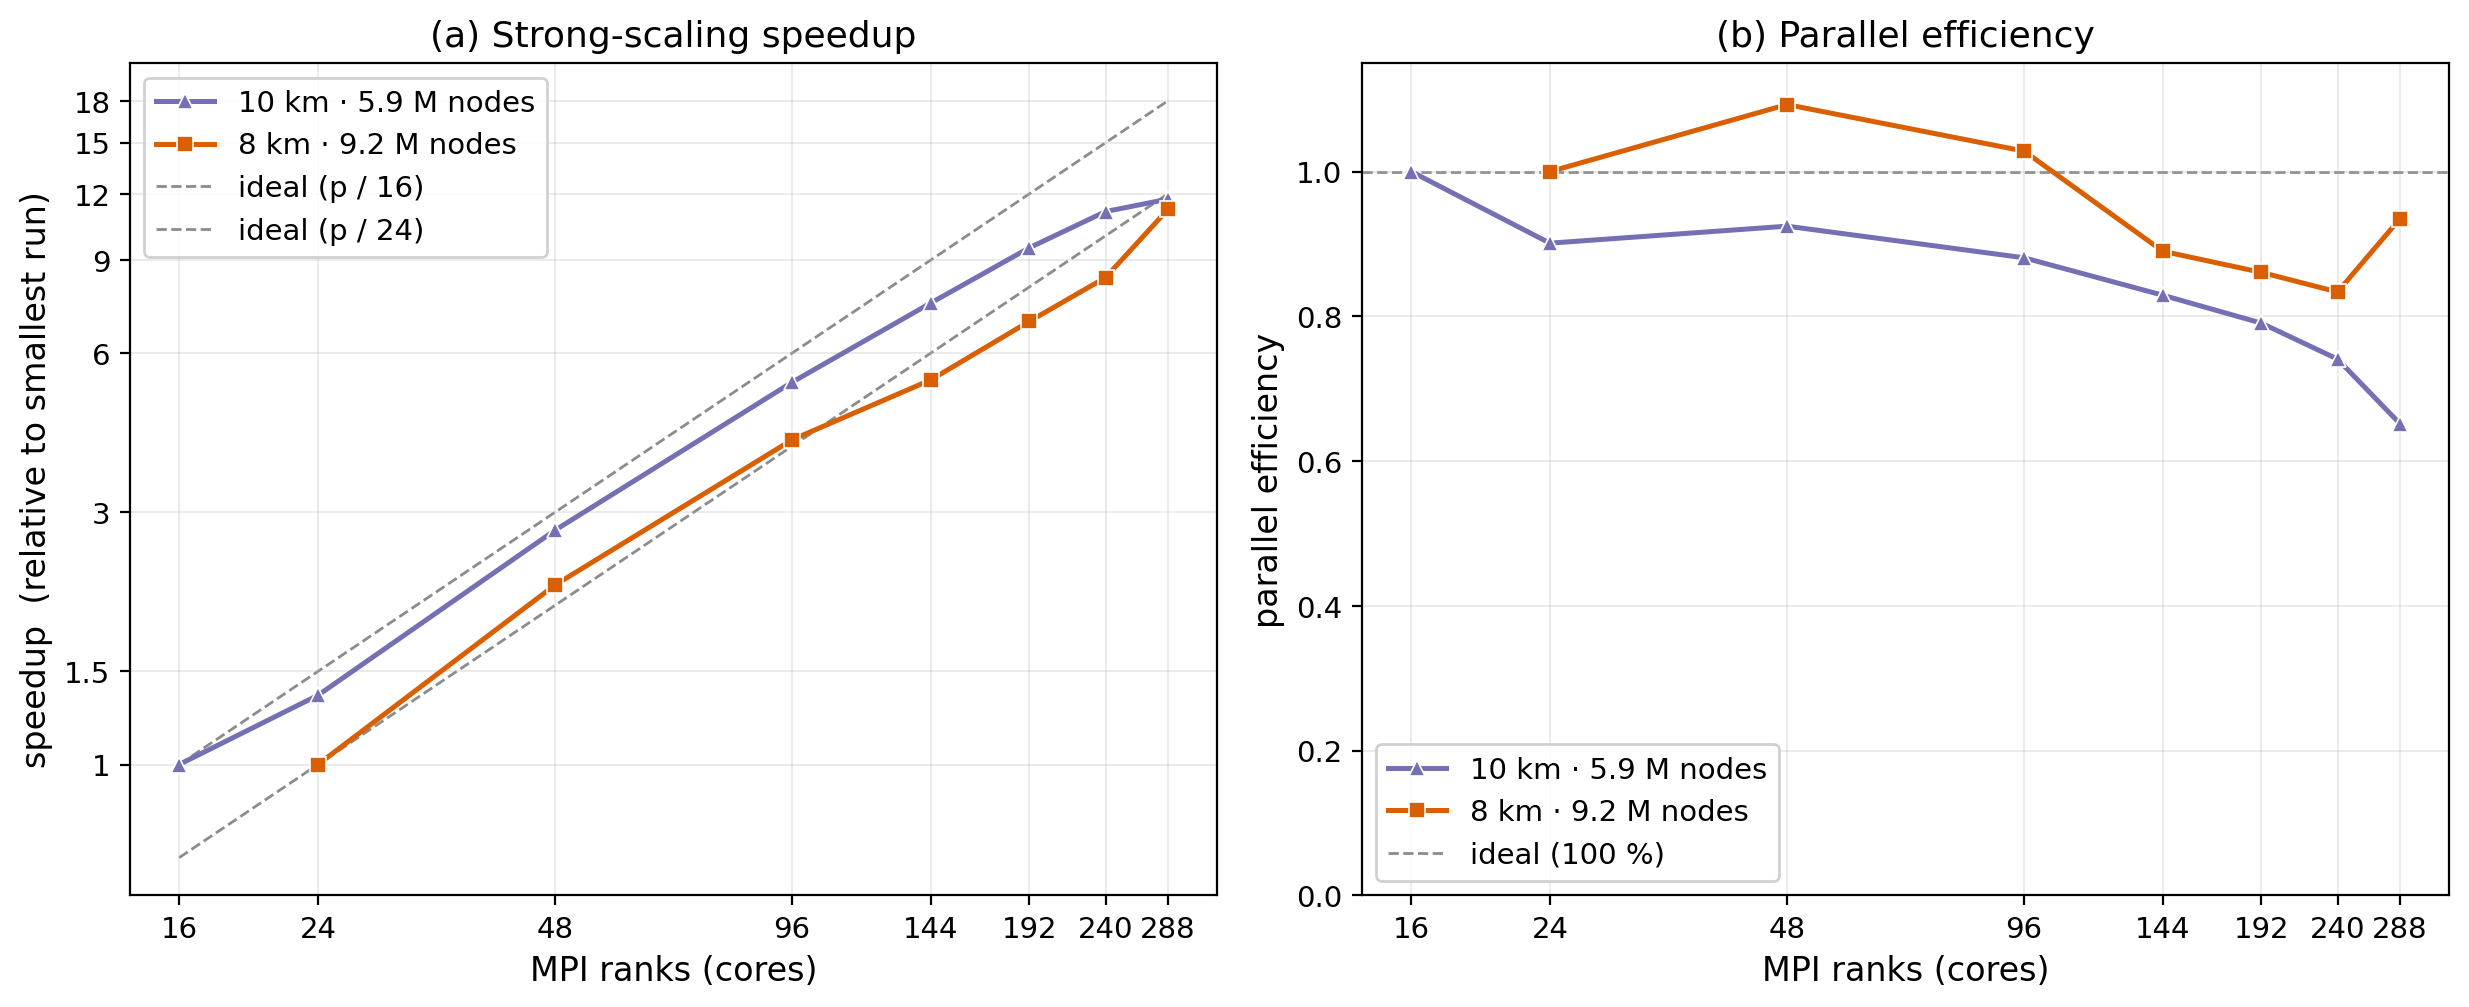
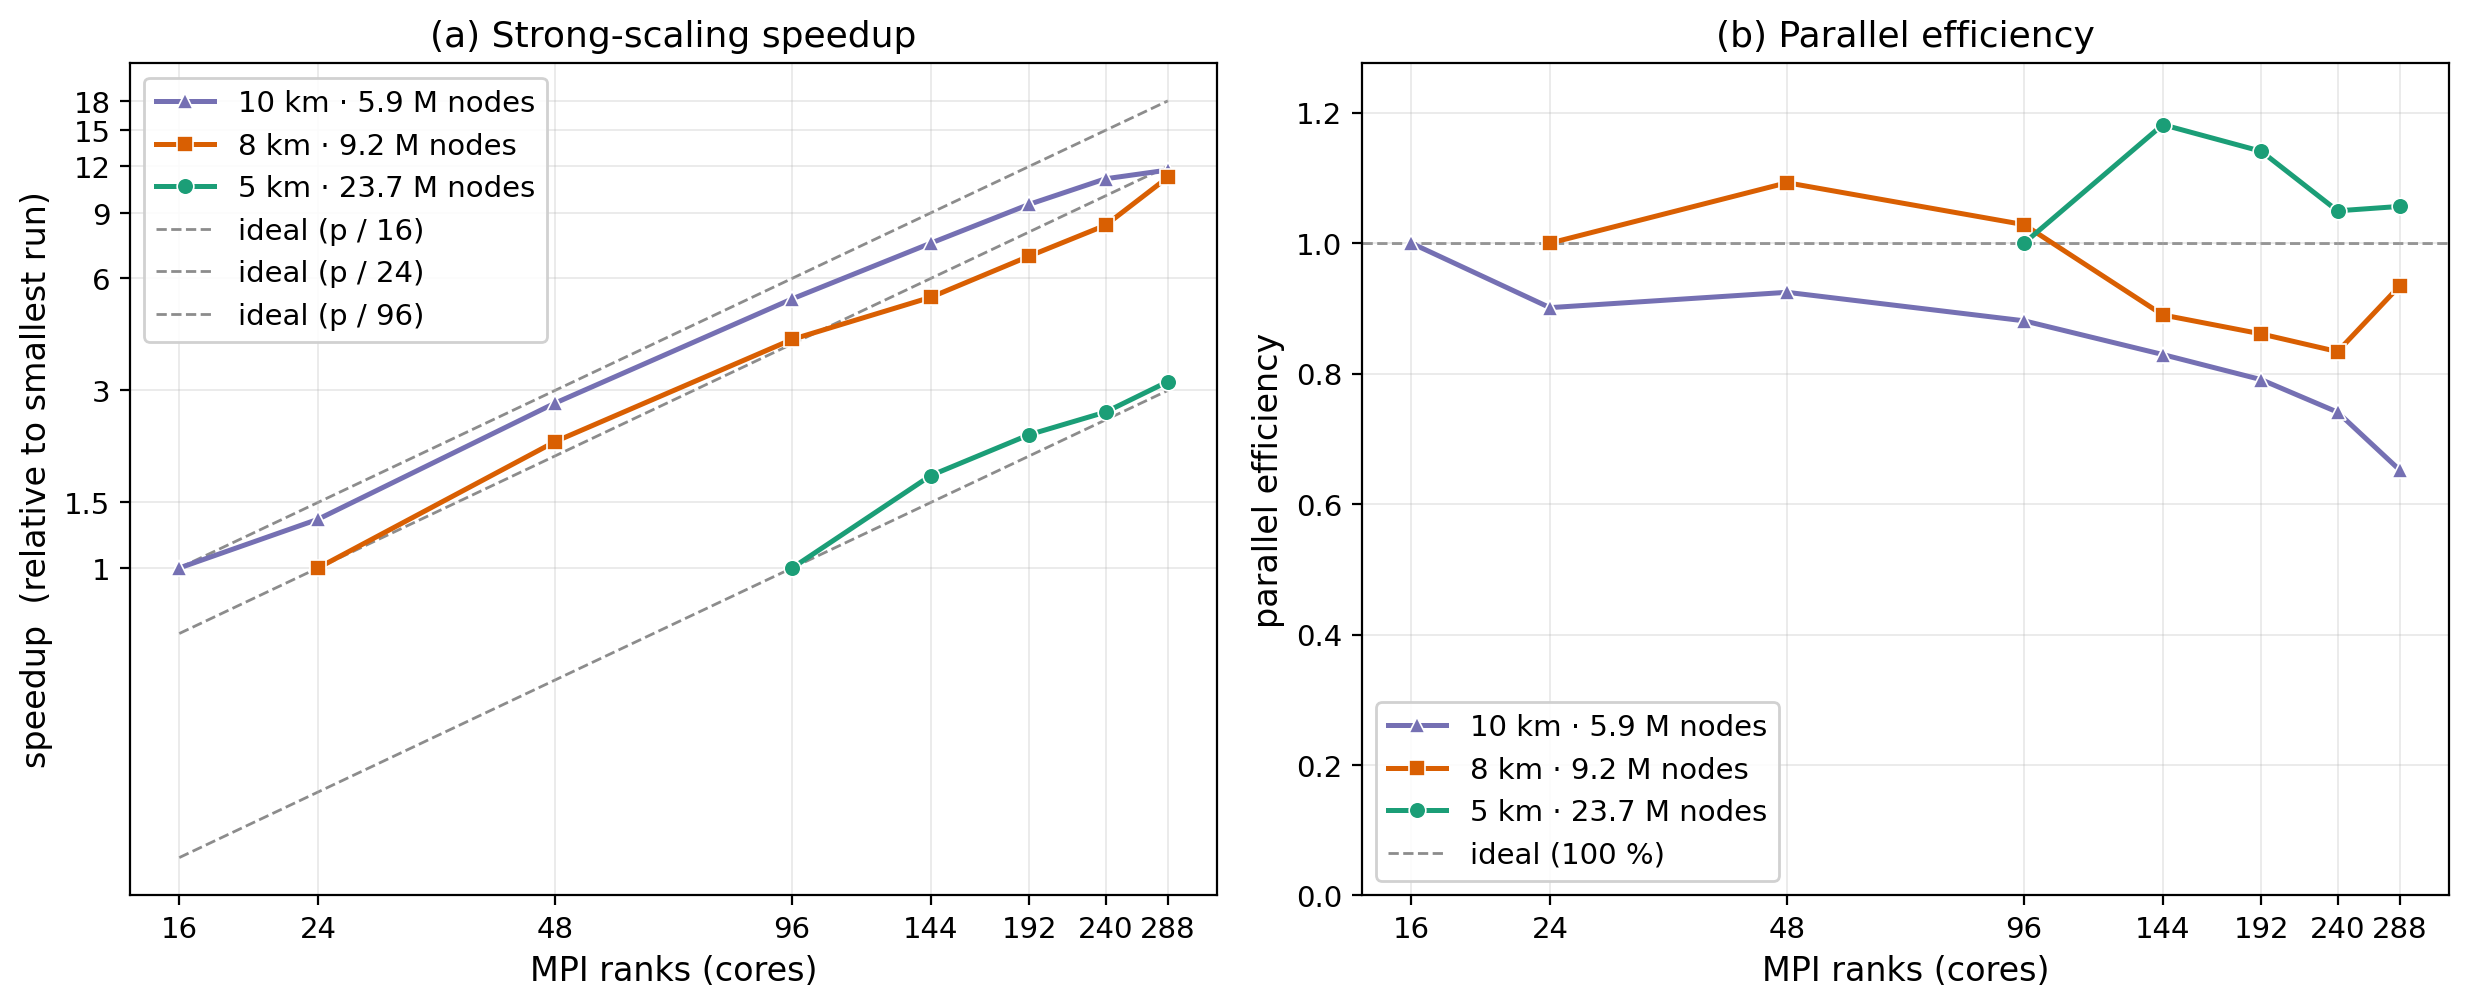
docs(user-guide): complete HPC scaling page with 5 km mesh + per-phase figure
Adds the 5 km (23.7 M node) sweep to the HPC strong-scaling page, now
covering all three production global meshes (10/8/5 km), and a second
figure breaking down per-phase scaling.

- 5 km curve (`scaling_5km.csv`, baseline 96 ranks, 1.77x -> 3.17x to
  288): table + curve in both figures. The 144-rank point is the run that
  confirmed the cascade stagnation-break fix completes (exit 0).
- 48-rank 5 km does NOT fit a single node (rank 0 OOM-killed; ~180 GB
  recorded, undercounting the peak past the node limit), documented as the
  reason 96 is the smallest feasible 5 km count.
- New per-phase scaling figure (`scaling_phases.png`, one panel per mesh):
  compute phases (sed/sea/flow/erosion/hillslope) track 1/p; flexure is the
  genuinely serial flat floor; pit filling is only PARTLY serial (local
  priority-flood fill parallelises ~16->8 s, then flattens toward its rank-0
  spillover-graph floor). Floors grow with mesh size.
- Real mesh stats (nodes/faces/edge min-max-mean) in the resolution table.
- `make_scaling_figure.py` emits both figures; efficiency y-limit is now
  data-adaptive (shows the 5 km super-linear peak at 1.18).
- Honest framing throughout: baseline-to-smallest convention (p0=16/24/96),
  super-linear efficiency reported un-clipped, serial floors named.

AGENTS.md: changelog rows + the flow-cascade stagnation-break note.

diff --git a/docs/user_guide/scaling/make_scaling_figure.py b/docs/user_guide/scaling/make_scaling_figure.py
@@ -25,9 +25,27 @@ import matplotlib.pyplot as plt  # noqa: E402
 
 HERE = os.path.dirname(os.path.abspath(__file__))
 OUT = os.path.normpath(os.path.join(HERE, "..", "..", "images", "scaling_hpc.png"))
+OUT_PHASES = os.path.normpath(
+    os.path.join(HERE, "..", "..", "images", "scaling_phases.png"))
+
+# Per-phase scaling figure: the TOP-LEVEL phases that partition the wall-clock
+# (the `flow_*` sub-phases nest inside `flow` and would double-count). `flexure`
+# is the genuinely flat serial floor; `flow_fill` (pit filling) scales partway
+# -- the local priority-flood fill is parallel -- then flattens toward its
+# serial rank-0 spillover-graph component, so it is broken out too. (column,
+# label).
+PHASES = [
+    ("phase_sed_mean_s", "sediment routing"),
+    ("phase_sea_mean_s", "marine deposition"),
+    ("phase_flow_mean_s", "flow accumulation"),
+    ("phase_erosion_mean_s", "river incision (SPL)"),
+    ("phase_hillslope_mean_s", "hillslope diffusion"),
+    ("phase_flow_fill_mean_s", "pit filling"),
+    ("phase_flexure_mean_s", "flexure (serial)"),
+]
 
 # Per-resolution metadata (node count for the legend). cell_width (km) -> label.
-MESH = {5: "5 km · 23.6 M nodes", 8: "8 km · 9.2 M nodes", 10: "10 km · 5.9 M nodes"}
+MESH = {5: "5 km · 23.7 M nodes", 8: "8 km · 9.2 M nodes", 10: "10 km · 5.9 M nodes"}
 # Distinct, colour-blind-friendly styling per resolution.
 STYLE = {
     5:  dict(color="#1b9e77", marker="o"),
@@ -62,6 +80,54 @@ def _load(path):
     return p, sp, eff
 
 
+def _load_phases(path):
+    rows = list(csv.DictReader(open(path)))
+    rows.sort(key=lambda r: int(r["nranks"]))
+    p = [int(r["nranks"]) for r in rows]
+    series = {}
+    for col, _ in PHASES:
+        if col in rows[0]:
+            series[col] = [float(r[col]) for r in rows]
+    return p, series
+
+
+def phase_figure(files):
+    """Per-phase strong scaling: one panel per mesh, log-log phase time vs
+    ranks, with a 1/p ideal guide. Shows the compute phases tracking the ideal
+    and the serial floors (flexure, pit-fill) flattening out."""
+    cmap = plt.get_cmap("tab10")
+    colours = {col: cmap(i) for i, (col, _) in enumerate(PHASES)}
+
+    fig, axes = plt.subplots(1, len(files), figsize=(5.6 * len(files), 5.0),
+                             squeeze=False)
+    axes = axes[0]
+    for ax, f in zip(axes, files):
+        km = int("".join(c for c in os.path.basename(f) if c.isdigit()))
+        p, series = _load_phases(f)
+        ticks = sorted(set(p))
+        # ideal 1/p guide anchored at the largest phase value at the baseline.
+        anchor = max(v[0] for v in series.values())
+        ax.plot([p[0], p[-1]], [anchor, anchor * p[0] / p[-1]], "--",
+                color="0.55", lw=1.0, zorder=0, label="ideal $\\propto 1/p$")
+        for col, lbl in PHASES:
+            if col in series:
+                ax.plot(p, series[col], "-o", color=colours[col], label=lbl,
+                        lw=1.6, ms=5, mec="white", mew=0.5)
+        ax.set_xscale("log", base=2)
+        ax.set_yscale("log")
+        ax.set_xticks(ticks)
+        ax.set_xticklabels([str(t) for t in ticks])
+        ax.set_xlabel("MPI ranks (cores)")
+        ax.set_title(MESH.get(km, "%d km" % km))
+    axes[0].set_ylabel("phase wall-clock per call (s)")
+    axes[0].legend(frameon=True, framealpha=0.9, fontsize=9.5, ncol=1,
+                   loc="lower left")
+    fig.tight_layout()
+    fig.savefig(OUT_PHASES, bbox_inches="tight")
+    plt.close(fig)
+    print("wrote", OUT_PHASES)
+
+
 def main():
     files = sorted(glob.glob(os.path.join(HERE, "scaling_*km.csv")),
                    key=lambda f: -int("".join(c for c in os.path.basename(f) if c.isdigit())))
@@ -71,12 +137,14 @@ def main():
     fig, (ax1, ax2) = plt.subplots(1, 2, figsize=(12.5, 5.2))
     all_p = set()
     baselines = set()
+    max_eff = 1.0
 
     for f in files:
         km = int("".join(c for c in os.path.basename(f) if c.isdigit()))
         p, sp, eff = _load(f)
         all_p.update(p)
         baselines.add(p[0])
+        max_eff = max(max_eff, max(eff))
         st = STYLE.get(km, dict(color="0.3", marker="D"))
         lbl = MESH.get(km, "%d km" % km)
         ax1.plot(p, sp, "-", **st, label=lbl, lw=1.8, ms=6, mec="white", mew=0.6)
@@ -107,7 +175,7 @@ def main():
     ax2.set_xscale("log", base=2)
     ax2.set_xticks(ticks)
     ax2.set_xticklabels([str(t) for t in ticks])
-    ax2.set_ylim(0.0, 1.15)
+    ax2.set_ylim(0.0, max(1.15, max_eff * 1.08))
     ax2.set_xlabel("MPI ranks (cores)")
     ax2.set_ylabel("parallel efficiency")
     ax2.set_title("(b) Parallel efficiency")
@@ -118,6 +186,8 @@ def main():
     fig.savefig(OUT, bbox_inches="tight")
     plt.close(fig)
     print("wrote", OUT)
+
+    phase_figure(files)
 
 
 if __name__ == "__main__":

diff --git a/docs/user_guide/hpc_scaling.rst b/docs/user_guide/hpc_scaling.rst
@@ -25,28 +25,32 @@ the edge lengths below are in km):
 
 .. list-table::
    :header-rows: 1
-   :widths: 18 16 16 16 22
+   :widths: 14 18 18 14 14 14
 
    * - Cell width (km)
+     - Nodes
+     - Faces
      - Edge min (km)
      - Edge max (km)
      - Edge mean (km)
-     - Nodes
    * - 5
-     - 1.1
-     - 4.5
-     - 2.8
-     - 23,632,811
+     - 23,655,606
+     - 47,311,208
+     - 3.73
+     - 6.78
+     - 4.99
    * - 8
-     - 1.8
-     - 7.2
-     - 4.6
-     - 9,236,387
+     - 9,246,354
+     - 18,492,704
+     - 6.11
+     - 10.96
+     - 7.98
    * - 10
-     - 2.2
-     - 8.9
-     - 5.7
-     - 5,912,778
+     - 5,916,934
+     - 11,833,864
+     - 7.59
+     - 13.61
+     - 9.98
 
 
 How the benchmark is run
@@ -83,10 +87,10 @@ Results
    :alt: goSPL strong-scaling speedup and parallel efficiency vs MPI ranks.
 
    Strong-scaling **speedup** (a) and **parallel efficiency** (b) versus MPI
-   rank count, for the global meshes above. Markers are measured points; dashed
-   lines are the ideal (each sweep baselined to its own smallest rank count, so
-   the 10 km and 8 km curves have different ideal references). *(The 5 km curve
-   is being collected and will be added here.)*
+   rank count, for the three global meshes above. Markers are measured points;
+   dashed lines are the ideal (each sweep is baselined to its own smallest
+   feasible rank count — 16, 24 and 96 for the 10, 8 and 5 km meshes — so the
+   three curves have different ideal references).
 
 **10 km mesh (5.9 M nodes), baseline = 16 ranks:**
 
@@ -187,6 +191,43 @@ Results
      - 0.93
      - 9.8
 
+**5 km mesh (23.7 M nodes), baseline = 96 ranks:**
+
+.. list-table::
+   :header-rows: 1
+   :widths: 12 16 14 16 20
+
+   * - Ranks
+     - Wall (s)
+     - Speedup
+     - Efficiency
+     - RSS / rank (GB)
+   * - 96
+     - 766.6
+     - 1.00
+     - 1.00
+     - 24.2
+   * - 144
+     - 432.5
+     - 1.77
+     - 1.18
+     - 24.3
+   * - 192
+     - 336.0
+     - 2.28
+     - 1.14
+     - 24.4
+   * - 240
+     - 292.2
+     - 2.62
+     - 1.05
+     - 24.4
+   * - 288
+     - 241.9
+     - 3.17
+     - 1.06
+     - 24.3
+
 
 Reading the results
 -------------------
@@ -200,49 +241,100 @@ Reading the results
   growing weight of the small *serial* sections as the parallel work shrinks:
 
   - **flexure** (global spherical-harmonic solve, ``pyshtools``) is a flat
-    ~4 s floor at every rank count;
-  - the **pit-filling spillover graph** (Barnes-2016 master solve, serial on
-    rank 0 by design — its cost scales with the partition *perimeter*) is a flat
-    ~8 s floor and grows slightly with rank count.
+    ~4 s floor at every rank count — genuinely serial;
+  - **pit filling** parallelises *partway* (the local priority-flood fill scales
+    — 10 km: ~16 → ~8 s) then flattens toward the floor set by its serial,
+    rank-0 spillover-graph master solve (whose cost tracks the partition
+    *perimeter* and so creeps up slightly with rank count).
 
-  Together these set the practical ceiling.
+  Together these set the practical ceiling (see *Where the time goes* below).
 * **Practical sweet spot ≈ 240 ranks** for the 10 km mesh: 11.1× speedup at 74 %
   efficiency. Going to 288 buys almost nothing (11.1× → 11.7×, efficiency
   0.74 → 0.65) — past here you are mostly paying the serial floors.
 * **Memory is the lower bound, not a per-rank growth.** Peak RSS on the heaviest
-  rank stays flat with rank count — ~6.6 GB (10 km) / ~9.9 GB (8 km) — because
-  the dominant arrays are replicated, mesh-sized (``mpoints``) globals that do
-  not decompose. That flat floor is what sets the *smallest* feasible rank count
-  (the 8 km mesh cannot start below ~24 ranks); the aggregate footprint grows
-  roughly linearly with rank count.
-* **The 8 km mesh scales superlinearly to ~96 ranks** (efficiency 1.09 at 48,
-  1.03 at 96 — *above* the ideal line). This is genuine, not a measurement
-  artefact: at the 24-rank baseline the per-rank working set is large and spills
-  cache / saturates memory bandwidth, so the baseline is *slow*; adding ranks
-  shrinks each rank's slice until it fits, and per-core throughput rises. The
-  effect fades once the slices are cache-resident (≥144 ranks), after which the
-  same Amdahl decline takes over (0.89 → 0.83 to 240, with 288 a favourable
-  outlier at 0.93). We report efficiency **uncapped** — superlinear points are
-  shown as measured, not clipped to 1.0.
+  rank stays flat with rank count — ~6.6 GB (10 km) / ~9.9 GB (8 km) /
+  ~24 GB (5 km) — because the dominant arrays are replicated, mesh-sized
+  (``mpoints``) globals that do not decompose. That flat floor is what sets the
+  *smallest* feasible rank count, which rises with mesh size: 16 ranks at 10 km,
+  24 at 8 km, **96 at 5 km**. At 5 km the peak is concentrated on **rank 0**
+  (which holds the serial pit-spillover graph): the *max*-rank RSS is ~24 GB
+  while the per-rank *average* (``rss_sum`` / ranks) is only ~3 GB, so the run
+  still fits on standard nodes even though the headline number looks large.
+  (A 48-rank 5 km run — everything on a single 192 GB node — is **OOM-killed**
+  on rank 0 (``SIGKILL``); PBS recorded ~180 GB, which undercounts the transient
+  peak that tripped the node limit — the sampled figure lags the actual peak, and
+  a "192 GB" node leaves only ~185 GB to the job after OS overhead. Spread over
+  two nodes, 96 ranks fits — which is why 96 is the smallest feasible 5 km count.)
+* **The 8 km and 5 km meshes scale superlinearly** at intermediate rank counts
+  (8 km: efficiency 1.09 at 48, 1.03 at 96; 5 km: 1.18 at 144, 1.14 at 192 —
+  *above* the ideal line). This is genuine, not a measurement artefact: at the
+  baseline the per-rank working set is large and spills cache / saturates memory
+  bandwidth, so the baseline is *slow*; adding ranks shrinks each rank's slice
+  until it fits, and per-core throughput rises. The effect fades once the slices
+  are cache-resident, after which the usual Amdahl decline takes over (8 km:
+  0.89 → 0.83 to 240; 10 km, with its small per-rank slice already cache-resident
+  at the 16-rank baseline, shows no super-linearity and declines from the start).
+  We report efficiency **uncapped** — super-linear points are shown as measured,
+  not clipped to 1.0.
 
 .. note::
 
    Efficiency is reported relative to each mesh's smallest feasible run
-   (:math:`p_0` = 16 ranks at 10 km, 24 at 8 km), **not** a single core. We
+   (:math:`p_0` = 16 ranks at 10 km, 24 at 8 km, 96 at 5 km), **not** a single
+   core. We
    deliberately do not extrapolate a virtual 1-core time to inflate the speedup.
    One consequence: because the baseline itself is memory-bandwidth bound,
    efficiency can legitimately exceed 1.0 at intermediate rank counts (see the
    8 km mesh) — a real super-linear effect we leave un-clipped rather than hide.
 
 
+Where the time goes
+-------------------
+
+Splitting the wall-clock by phase shows *why* the curves bend, and it's the
+honest way to see what scales and what doesn't.
+
+.. figure:: ../images/scaling_phases.png
+   :width: 100%
+   :align: center
+   :alt: Per-phase wall-clock vs MPI ranks for each global mesh.
+
+   Mean per-call wall-clock of the main model phases versus rank count, one
+   panel per mesh (log–log; the dashed line is the ideal :math:`\propto 1/p`).
+   Only top-level phases are shown — the ``flow_*`` sub-phases nest inside
+   *flow accumulation* — with *flexure* (the serial floor) and *pit filling*
+   (partly serial) broken out.
+
+* **The compute phases scale well.** Sediment routing, marine deposition, flow
+  accumulation, river incision (SPL) and hillslope diffusion all track the
+  :math:`1/p` ideal across the whole range — they dominate the budget and are
+  what makes the overall speedup hold up.
+* **Flexure is the one genuinely serial floor.** The global spherical-harmonic
+  load solve is essentially **flat** with rank count (it does not decompose), so
+  as the parallel phases shrink it becomes a larger fraction — the main Amdahl
+  term behind the efficiency decline.
+* **Pit filling is only *partly* serial.** It *does* scale down at first (10 km:
+  ~16 → ~8 s) — the local priority-flood fill is parallel — but it **flattens**
+  toward a floor set by its rank-0 spillover-graph master solve (whose own cost
+  even creeps up slightly with rank count, tracking the partition perimeter). So
+  it scales partway and then plateaus, rather than being a fixed cost like
+  flexure.
+* **The floors grow with mesh size.** Flexure rises ~4 → ~5 → ~11 s and pit
+  filling's baseline ~16 → ~32 → ~45 s from the 10 → 8 → 5 km meshes, so on
+  finer meshes the serial fraction sets in at a (proportionally) lower rank
+  count — the motivation for keeping these two phases on the optimisation radar.
+
+
 Reproducing
 -----------
 
-The summary CSVs and the figure script live in
-``docs/user_guide/scaling/``. To regenerate the figure (e.g. after adding the
-8 km / 5 km sweeps as ``scaling_8km.csv`` / ``scaling_5km.csv``)::
+The summary CSVs and the figure script live in ``docs/user_guide/scaling/``.
+To regenerate both figures (``scaling_hpc.png`` and ``scaling_phases.png``)
+after adding or updating a sweep CSV (``scaling_<N>km.csv``)::
 
     python docs/user_guide/scaling/make_scaling_figure.py
 
-To run a sweep and produce a CSV, see ``scripts/scaling/README.md`` (the
-``submit_sweep.sh`` → ``analyze_scaling.py`` → ``plot_scaling.py`` workflow).
+The script auto-discovers every ``scaling_<N>km.csv`` in that folder, so a new
+resolution is picked up by dropping its CSV in and re-running. To run a sweep
+and produce a CSV, see ``scripts/scaling/README.md`` (the ``submit_sweep.sh`` →
+``analyze_scaling.py`` → ``plot_scaling.py`` workflow).

diff --git a/AGENTS.md b/AGENTS.md
@@ -670,7 +670,7 @@ installed `gospl.__version__` equals `GOSPL_VERSION`, so the build arg and
 | 2026-06-21 | — (on `dev`) | **Drainage graph made partition-invariant + np>1 deadlock fixed + dead Fortran removed.** Closed the residual drainage non-invariance that made the flow-KSP "un-drained region" (and the `sed`/`sea` cascade cost) vary with rank count. Four roots, all re-keyed on the partition-invariant input-mesh id (`self.gid` → `self.locIDs`): the flat-routing receiver tie-break (`_dirFlats`, Python, replacing `fill_rcvs`), the flat-BFS distance `ptdir` (`nghb_dir` rewritten as a relaxing label-correcting Dijkstra + convergence loop), and the spill-point selection + pit membership (`_pitInformation` min-`locID` pick replacing `spill_pts`; `label_pits` order-dependent flags dropped). Verified on a 5.9M global mesh np=1-vs-np8: true singular set symdiff 0; the `sed` scaling regression (P=240 50.8→15.2 s) gone. Also: the **continental closed-sink deadlock at np>1** (`_distributeSediment`'s `_closedDepo.any()` guarding collective scatters → `allreduce(LOR)`; guard `test_advection_parallel`, 600s→13s). Removed 10 now-unused Fortran kernels (`fill_rcvs`/`spill_pts` + 8 pre-existing dead). Benign-failure reporting + bounded fallback for the un-drainable pockets. Commits `ecad183`/`d07f42f`/`01decdc`/`de217d8`. |
 | 2026-06-22 | — (on `dev`) | **Erratic-`sed` cascade grind capped; benchmark `bc` fixed for the NESW order; SPL case-100 dropped; scaling tooling.** At scale (9.2M mesh) a residual near-singular cell makes a cascade `fgmres` solve grind to `max_it` → erratic `sed` at some partitions; **capped** the non-fatal cascade solves at `_cascade_max_it`=1000 (fatal flow-accum keeps the full budget) — 5500→1500 iters at np=16, same result (`22c6aaa`). A reachability-to-outlet **pin** (eliminate the singular rows) was built + proven correct but **rejected** (cross-partition cost scales up with rank count, swaps memory) — documented so it isn't re-attempted (`4126a08`). **Benchmark `bc`** inputs were written for the OLD `[S,E,N,W]` order; under the NESW rework their edges flipped — fixed (`spl 0010→fooo` restores the N outlet = the SPL-benchmark failure; hillslope `ofof`, knickpoint `ooof`; SPL `end` 10→5 Myr, steady state ~1.9 Myr) and the finest **SPL case 100 dropped** (failing 4/6 on finest-mesh basin/R² artifacts + the 34-min bottleneck). Full analytical suite now green (~13 min: SPL ~3, knickpoint ~3.5, hillslope ~6.8). New `scripts/scaling/plot_scaling.py`; `gadi.pbs` consolidation. Commits `92549db`/`a03dc0d`/`bd98ef5`/`e2258e2`/`7e8f07a`. |
 | 2026-06-22 | `d4162aa` (on `dev`) | **Flow downstream cascade bounded (fixes the 5 km / 144-rank `garbage_cleanup` overflow crash).** The `while excess` loop in `flowAccumulation` had no iteration bound; a partition that cuts an un-drainable pocket left `excess` permanently set, spinning the loop (rebuild `fMat` + re-solve each pass) until the collective PETSc garbage collector overflowed and aborted the run (`Memory requested 18446744065119617024`, ~2.3 GB/rank in use — **not** OOM). Deterministic at 144 ranks; 96/192/240/288 don't form the pocket. Fix: a **stagnation break** on the global residual flux `_cascade_resid` — break after `_cascade_patience` (3, env `GOSPL_CASCADE_PATIENCE`) non-shrinking passes, pond the residual as a closed basin, warn loudly; `_cascade_max_steps` (100, env `GOSPL_CASCADE_MAX_STEPS`) backstop. Partition-invariant outcome; real (slow) convergence never truncated (33/33 fast + mass/provenance conservation green). sed/sea cascades were already bounded (`max_iters=5000`). See **`## Flow-accumulation KSP` → Residual**. |
-| 2026-06-22 | — (on `dev`) | **HPC scaling user-guide page.** New `docs/user_guide/hpc_scaling.rst` (+ toctree/card in `index.rst`) documenting strong-scaling speedup + parallel efficiency on the 10 km (5.9 M) and 8 km (9.2 M) global meshes, honest about the baseline-to-smallest convention, super-linear (cache/bandwidth) efficiency at 8 km, and the serial floors (flexure, pit-graph). Reusable figure generator `docs/user_guide/scaling/make_scaling_figure.py` auto-discovers `scaling_<N>km.csv` (5 km pending); output `docs/images/scaling_hpc.png`. |
+| 2026-06-22 | — (on `dev`) | **HPC scaling user-guide page.** New `docs/user_guide/hpc_scaling.rst` (+ toctree/card in `index.rst`) documenting strong-scaling speedup + parallel efficiency on the 10 km (5.9 M), 8 km (9.2 M) and 5 km (23.7 M) global meshes, honest about the baseline-to-smallest convention (p0 = 16/24/96 ranks), super-linear (cache/bandwidth) efficiency at 8 km and 5 km, the serial floors (flexure, pit-graph), and the rank-0-concentrated ~24 GB RSS peak at 5 km. Reusable figure generator `docs/user_guide/scaling/make_scaling_figure.py` auto-discovers `scaling_<N>km.csv`; output `docs/images/scaling_hpc.png`. The 5 km / 144-rank point was the run that confirmed the cascade stagnation-break fix completes (exit 0). |
 
 ## Checklist before any commit
 1. Did you read this file? If invariants here changed, update them.